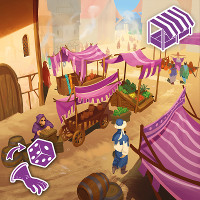
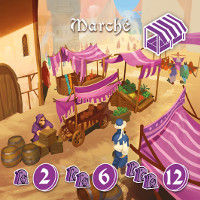
fix bug game is over + modify rules about Tavern, Market and CityHall

diff --git a/app/src/HeaderText.tsx b/app/src/HeaderText.tsx
@@ -75,6 +75,20 @@ function getPseudo(player: PlayerRole, players: PlayerInfo<PlayerRole>[], t: TFu
   }
 }
 
+function betResultText(dice:number[]):number{
+  const arrayOfTwos = dice.filter(face => face === 2)
+  const arrayOfThrees = dice.filter(face => face === 3)
+  const arrayOfFours = dice.filter(face => face === 4)
+  if (arrayOfFours.length === 4 || arrayOfThrees.length === 4 ||arrayOfTwos.length === 4){
+    return 4
+  } else if (arrayOfFours.length === 3 || arrayOfThrees.length === 3 ||arrayOfTwos.length === 3){
+    return 3
+  } else if (arrayOfFours.length === 2 || arrayOfThrees.length === 2 ||arrayOfTwos.length === 2){
+    return 2
+  } else return 0
+
+}
+
 function HeaderGameOverText({game}:{game:GameView}){
   const {t} = useTranslation()
   const playerId = usePlayerId<PlayerRole>()
@@ -244,9 +258,9 @@ function HeaderOnGoingGameText({game}:{game:GameView}){
             if (district.dice === undefined){
               return <> {t("solving.cityhall.dice")} </>
             } else if (partnersOnDistrict.every(part => part.solvingDone === true)){
-              return <> {t("solving.cityhall.place.gold.on.treasure", {gold: district.dice.reduce((acc, cv) => acc + cv) % partnersOnDistrict.length})} </>
+              return <> {t("solving.cityhall.place.gold.on.treasure", {gold: ((getThieves(game).length < 4 ? 7 : 10) + (district.dice.length !== 0 ? district.dice.reduce((acc, cv) => acc + cv) : 0)) % partnersOnDistrict.length})} </>
             } else {
-              return <> {t("solving.cityhall.gain.gold", {thief:getPseudo(getThieves(game).find(p => p.partners.some(part => isPartner(part) && part.district === district.name && part.solvingDone !== true))!.role, players, t), gold : Math.floor(district.dice.reduce((acc, cv) => acc + cv) / partnersOnDistrict.length) })} </>
+              return <> {t("solving.cityhall.gain.gold", {thief:getPseudo(getThieves(game).find(p => p.partners.some(part => isPartner(part) && part.district === district.name && part.solvingDone !== true))!.role, players, t), gold : Math.floor(((getThieves(game).length < 4 ? 7 : 10) + (district.dice.length !== 0 ? district.dice.reduce((acc, cv) => acc + cv) : 0)) / partnersOnDistrict.length) })} </>
             }
           }
           case DistrictName.Convoy:{
@@ -316,12 +330,14 @@ function HeaderOnGoingGameText({game}:{game:GameView}){
                 } else if (district.dice === undefined){
                   return <> {t("solving.tavern.you.roll.dice")} </>
                 } else {
-                  if (district.dice[0] === 2){
+                  if (betResultText(district.dice) === 0){
                     return <> {t("solving.tavern.you.lost", {gold:partnerOnTavern.goldForTavern})} </>
-                  } else if (district.dice[0] === 3 && isEvent === false){
+                  } else if (betResultText(district.dice) === 2){
                     return <> {t("solving.tavern.you.double", {gold:partnerOnTavern.goldForTavern*2})} </>
-                  } else {
+                  } else if (betResultText(district.dice) === 3){
                     return <> {t("solving.tavern.you.triple", {gold:partnerOnTavern.goldForTavern*3})} </>
+                  } else {
+                    return <> {t("solving.tavern.you.quadruple", {gold:partnerOnTavern.goldForTavern*4})} </>
                   }
                 }
               } else {
@@ -333,12 +349,14 @@ function HeaderOnGoingGameText({game}:{game:GameView}){
                   if (district.dice === undefined){
                     return <> {t("solving.tavern.thief.roll.dice", {thief:getPseudo(thiefWhoBet.role, players, t)})} </>
                   } else {
-                    if (district.dice[0] === 2){
+                    if (betResultText(district.dice) === 0){
                       return <> {t("solving.tavern.thief.lost", {thief:getPseudo(thiefWhoBet.role, players, t), gold:partnerWhoBet.goldForTavern!})} </>
-                    } else if (district.dice[0] === 3 && isEvent === false){
+                    } else if (betResultText(district.dice) === 2){
                       return <> {t("solving.tavern.thief.double", {thief:getPseudo(thiefWhoBet.role, players, t), gold:partnerWhoBet.goldForTavern!*2})} </>
-                    } else {
+                    } else if (betResultText(district.dice) === 3){
                       return <> {t("solving.tavern.thief.triple", {thief:getPseudo(thiefWhoBet.role, players, t), gold:partnerWhoBet.goldForTavern!*3})} </>
+                    } else {
+                      return <> {t("solving.tavern.thief.quadruple", {thief:getPseudo(thiefWhoBet.role, players, t), gold:partnerWhoBet.goldForTavern!*4})} </>
                     }
                   }
                 }

diff --git a/rules/src/Brigands.ts b/rules/src/Brigands.ts
@@ -75,7 +75,7 @@ export default class Brigands extends SimultaneousGame<GameState, Move, PlayerRo
     return this.state.phase === undefined
   }
 
-  getPhaseRules(): PhaseRules {
+  getPhaseRules(): PhaseRules | undefined {
     switch (this.state.phase) {
       case Phase.NewDay:
         return new NewDay(this.state)
@@ -86,20 +86,20 @@ export default class Brigands extends SimultaneousGame<GameState, Move, PlayerRo
       case Phase.Solving:
         return new Solving(this.state)
       default:
-        throw new Error('Game is over')
+        return undefined
     }
   }
 
   isActive(playerId: PlayerRole): boolean {
     const player = this.state.players.find(p => p.role === playerId)
-    if (!player) return false
-    return isThief(player) ? this.getPhaseRules().isThiefActive(player) : this.getPhaseRules().isPrinceActive(player)
+    if (!player|| this.getPhaseRules() === undefined) return false
+    return isThief(player) ? this.getPhaseRules()!.isThiefActive(player) : this.getPhaseRules()!.isPrinceActive(player)
   }
 
   getLegalMoves(role: PlayerRole): Move[] {
     const player = this.state.players.find(p => p.role === role)
-    if (player === undefined) return []
-    return isThief(player) ? this.getPhaseRules().getThiefLegalMoves(player) : this.getPhaseRules().getPrinceLegalMoves(player)
+    if (player === undefined || this.getPhaseRules() === undefined) return []
+    return isThief(player) ? this.getPhaseRules()!.getThiefLegalMoves(player) : this.getPhaseRules()!.getPrinceLegalMoves(player)
   }
 
   play(move: Move): void {
@@ -155,8 +155,8 @@ export default class Brigands extends SimultaneousGame<GameState, Move, PlayerRo
 
   getAutomaticMove(): Move | void {
     if (this.isOver()) return
-    if ((princeWin(this.state) || lastTurnIsOver(this.state))) return {type: MoveType.RevealGolds}
-    return this.getPhaseRules().getAutomaticMove()
+    if ((princeWin(this.state) || lastTurnIsOver(this.state) || this.getPhaseRules() === undefined)) return {type: MoveType.RevealGolds}
+    return this.getPhaseRules()!.getAutomaticMove()
   }
 
   getView(playerId?: PlayerRole): GameView {

diff --git a/rules/src/districts/CityHall.ts b/rules/src/districts/CityHall.ts
@@ -33,7 +33,7 @@ export default class CityHall extends DistrictRules {
         const event: Event = EventArray[this.state.event]
         const additionalDice = this.isDistrictEvent() ? event.numberOfDice! : 0
         return {
-          type: MoveType.ThrowDice, dice: rollDice(2 + additionalDice),
+          type: MoveType.ThrowDice, dice: rollDice(additionalDice), 
           district: DistrictName.CityHall
         }
       }
@@ -41,19 +41,20 @@ export default class CityHall extends DistrictRules {
       return {
         type : MoveType.GainGold, district:DistrictName.CityHall, 
         thief:this.getThieves().filter(t => t.partners.some(part => isPartner(part) && part.district === DistrictName.CityHall))[0].role,
-        gold:this.district.dice.reduce((acc, cv) => acc + cv),
+        gold:(this.getThieves().length < 4 ? 7 : 10) + (this.district.dice.length !== 0 ? this.district.dice.reduce((acc, cv) => acc + cv) : 0),
         noShare:true
        }
     }
     
     else if (partners.every(p => p.solvingDone === true)) {
       return {
-        type: MoveType.SpareGoldOnTreasure, gold: this.district.dice.reduce((acc, cv) => acc + cv) % partners.length,
+        type: MoveType.SpareGoldOnTreasure, gold: ((this.getThieves().length < 4 ? 7 : 10) + (this.district.dice.length !== 0 ? this.district.dice.reduce((acc, cv) => acc + cv) : 0)) % partners.length,
         district: DistrictName.CityHall
       }
     } else {
       return {
-        type: MoveType.GainGold, gold: Math.floor(this.district.dice.reduce((acc, cv) => acc + cv) / partners.length),
+        type: MoveType.GainGold,
+        gold: Math.floor(((this.getThieves().length < 4 ? 7 : 10) + (this.district.dice.length !== 0 ? this.district.dice.reduce((acc, cv) => acc + cv) : 0)) / partners.length),
         thief: this.getThieves().find(p => p.partners.filter(part => part.district === DistrictName.CityHall).some(part => part.solvingDone !== true))!.role,
         district: DistrictName.CityHall
       }

diff --git a/rules/src/districts/Tavern.ts b/rules/src/districts/Tavern.ts
@@ -46,7 +46,7 @@ export default class Tavern extends DistrictRules {
       return
     }
     if (this.district.dice === undefined) {
-      return {type: MoveType.ThrowDice, dice: rollDice(1), district: DistrictName.Tavern}
+      return {type: MoveType.ThrowDice, dice: rollDice(this.isDistrictEvent() ? 4 : 3), district: DistrictName.Tavern}   // Roll 3 dices and not only 1 (or 4 if event)
     }
     const partner = thiefWithBet.partners.find(part => part.district === DistrictName.Tavern && part.goldForTavern !== undefined)!
     if (partner.solvingDone) {
@@ -54,7 +54,7 @@ export default class Tavern extends DistrictRules {
     } else {
       return {
         type: MoveType.GainGold,
-        gold: betResult(partner.goldForTavern!, this.district.dice[0], this.isDistrictEvent()),
+        gold: betResultv2(partner.goldForTavern!, this.district.dice),
         thief: thiefWithBet.role, district: DistrictName.Tavern
       }
     }
@@ -76,4 +76,18 @@ function betResult(goldBet: number, dice: number, isEvent: boolean): number {
         return 0
     }
   }
+}
+
+function betResultv2(goldBet:number, dice:number[]):number{
+  const arrayOfTwos = dice.filter(face => face === 2)
+  const arrayOfThrees = dice.filter(face => face === 3)
+  const arrayOfFours = dice.filter(face => face === 4)
+  if (arrayOfFours.length === 4 || arrayOfThrees.length === 4 ||arrayOfTwos.length === 4){
+    return goldBet * 4
+  } else if (arrayOfFours.length === 3 || arrayOfThrees.length === 3 ||arrayOfTwos.length === 3){
+    return goldBet * 3
+  } else if (arrayOfFours.length === 2 || arrayOfThrees.length === 2 ||arrayOfTwos.length === 2){
+    return goldBet * 2
+  } else return 0
+
 }

diff --git a/rules/src/districts/Market.ts b/rules/src/districts/Market.ts
@@ -2,6 +2,7 @@ import {rollDice} from '../material/Dice'
 import Move from '../moves/Move'
 import MoveType from '../moves/MoveType'
 import { ThiefState } from '../PlayerState'
+import { isPartner } from '../types/Partner'
 import PlayerRole from '../types/PlayerRole'
 import DistrictName from './DistrictName'
 import {DistrictRules} from './DistrictRules'
@@ -19,14 +20,13 @@ export default class Market extends DistrictRules {
         return {type: MoveType.MoveOnDistrictResolved, districtResolved: this.state.districtResolved!}
       }
     }
-    if (this.district.dice === undefined) {
-      return {type: MoveType.ThrowDice, dice: rollDice(this.isDistrictEvent() ? 2 : 1), district: DistrictName.Market}
-    }
-    const partner = thief.partners.find(partner => partner.district === DistrictName.Market)!
-    if (!partner.solvingDone) {
-      return {type: MoveType.GainGold, gold: this.district.dice.reduce((acc, vc) => acc + vc), thief: thief.role, district: DistrictName.Market}
-    } else {
+
+    const partnersOfOneColor = thief.partners.filter(part => part.district === DistrictName.Market)
+
+    if (partnersOfOneColor.some(part => part.solvingDone === true)) {
       return {type: MoveType.TakeBackPartner, thief: thief.role, district: DistrictName.Market}
+    } else {
+      return {type: MoveType.GainGold, gold: partnersOfOneColor.length*(partnersOfOneColor.length+1) + (this.isDistrictEvent() ? 5 : 0), thief: thief.role, district: DistrictName.Market}
     }
   }
 

diff --git a/app/src/utils/Images.ts b/app/src/utils/Images.ts
@@ -21,7 +21,8 @@ import iconTavern from '../images/IconTavern.png'
 import iconTreasure from '../images/IconTreasure.png'
 import iconConvoy from '../images/IconConvoy.png'
 
-import districtCityHall from '../images/DistrictCityHall.jpg'
+import districtCityHall1 from '../images/DistrictCityHall1.jpg'
+import districtCityHall2 from '../images/DistrictCityHall2.jpg'
 import districtHarbor from '../images/DistrictHarbor.jpg'
 import districtJail from '../images/DistrictJail.jpg'
 import districtMarket from '../images/DistrictMarket.jpg'
@@ -93,7 +94,7 @@ const Images = {
     cardBack, sealBlue, sealGreen, sealPurple, sealRed, sealYellow,
     cardCityHall, cardHarbor, cardMarket, cardPalace, cardTavern, cardTreasure, cardConvoy,
     iconCityHall, iconHarbor, iconMarket, iconPalace, iconTavern, iconTreasure, iconConvoy,
-    districtCityHall, districtHarbor, districtMarket, districtPalace1, districtPalace2, districtTavern, districtTreasure, districtJail, districtConvoy1, districtConvoy2, // ADD CONVOY TILE HERE
+    districtCityHall1, districtCityHall2, districtHarbor, districtMarket, districtPalace1, districtPalace2, districtTavern, districtTreasure, districtJail, districtConvoy1, districtConvoy2, // ADD CONVOY TILE HERE
     princePanel,
     patrol, mercenary, victoryToken,
     coin1,coin2,coin5,

diff --git a/rules/src/moves/GainGold.ts b/rules/src/moves/GainGold.ts
@@ -1,7 +1,7 @@
 import DistrictName from '../districts/DistrictName'
 import GameState from '../GameState'
 import GameView, {getThieves} from '../GameView'
-import {isThiefState} from '../PlayerState'
+import {isPrinceState, isThiefState} from '../PlayerState'
 import {isPartner, isPartnerView} from '../types/Partner'
 import PlayerRole from '../types/PlayerRole'
 import Move from './Move'
@@ -53,8 +53,17 @@ export function gainGold(state: GameState | GameView, move: GainGold) {
     if (isThiefState(thief)) {
       thief.gold += move.gold
     }
-    const partner = thief.partners.find(partner => !isPartnerView(partner) && partner.district === move.district && partner.solvingDone !== true)!
-    partner.solvingDone = true
+
+    if (move.district === DistrictName.Market){
+      thief.partners.forEach(part => {
+        if (isPartner(part) && part.district === DistrictName.Market){
+          part.solvingDone = true
+        }
+      })
+    } else {
+      const partner = thief.partners.find(partner => !isPartnerView(partner) && partner.district === move.district && partner.solvingDone !== true)!
+      partner.solvingDone = true
+    }
 
   }
 

diff --git a/app/src/GameDisplay.tsx b/app/src/GameDisplay.tsx
@@ -113,7 +113,7 @@ export default function GameDisplay({game, audioLoader}: Props) {
           />
         }
 
-        {game.districtResolved !== undefined && game.city[game.districtResolved].name !== DistrictName.Treasure && (diceAnimation ? diceAnimation.move.dice : game.city[game.districtResolved].dice) &&
+        {game.districtResolved !== undefined && game.city[game.districtResolved].name !== DistrictName.Treasure && (diceAnimation ? diceAnimation.move.dice.length !== 0 : (game.city[game.districtResolved].dice !== undefined && game.city[game.districtResolved].dice!.length !== 0)) &&
           <DicePopUp dice={diceAnimation ? diceAnimation.move.dice : game.city[game.districtResolved].dice} 
         />}
 

diff --git a/app/src/BrigandsAnimations.ts b/app/src/BrigandsAnimations.ts
@@ -23,7 +23,7 @@ const brigandsAnimations : Animations<GameView, MoveView, PlayerRole> = {
         } else if (move.type === MoveType.TakeBackPartner){
             return 1
         } else if (move.type === MoveType.ThrowDice){
-            return 2
+            return move.dice.length === 0 ? 0 : 2
         } else if (move.type === MoveType.ResolveStealToken){
             const stealResult : Steal[] = []
             move.steals.forEach(s => {

diff --git a/app/src/board/DistrictTile.tsx b/app/src/board/DistrictTile.tsx
@@ -203,7 +203,7 @@ export function getDistrictImage(district:number, nbPlayers:number):string{
         case 4 :
             return Images.districtHarbor
         case 5 : 
-            return Images.districtCityHall
+            return nbPlayers < 5 ? Images.districtCityHall1 : Images.districtCityHall2
         case 6 : 
             return Images.districtTreasure
         case 7 : 
